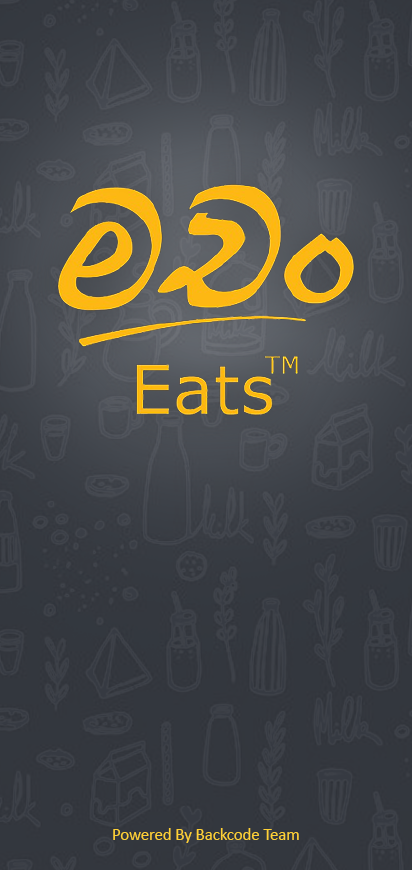
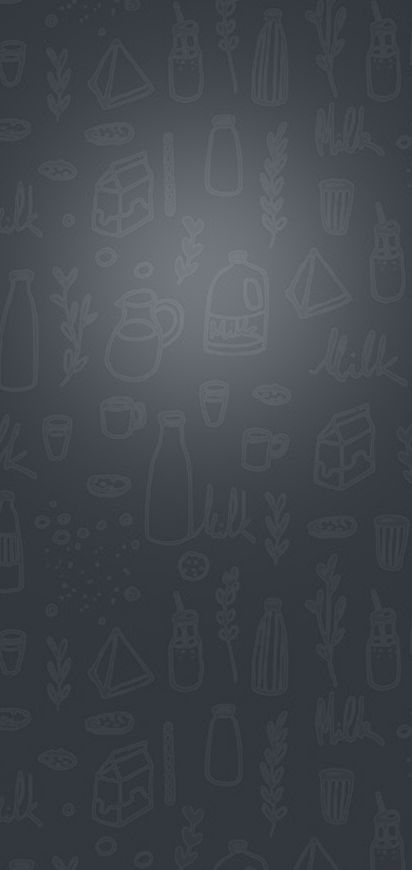
add getStarted

diff --git a/lib/user/getStarted.dart b/lib/user/getStarted.dart
@@ -1,8 +1,15 @@
 import 'package:flutter/material.dart';
+import 'constants.dart';
+import 'login.dart';
  
-class GetStarted extends StatelessWidget {
+class GetStarted extends StatefulWidget {
   const GetStarted({Key? key}) : super(key: key);
 
+  @override
+  State<GetStarted> createState() => _GetStartedState();
+}
+
+class _GetStartedState extends State<GetStarted> {
   @override
   Widget build(BuildContext context) {
     return Scaffold(
@@ -11,7 +18,51 @@ class GetStarted extends StatelessWidget {
           image: DecorationImage(image: AssetImage('images/GetStarted.png'),fit: BoxFit.cover)
           
         ),
+        child: logoImage(),
       ),
+    );  
+  }
+
+  Widget logoImage(){
+    return Column(
+      children: <Widget>[
+        Padding(
+          padding: EdgeInsets.only(
+            top: 20
+          ),
+          child: Image.asset('images/machanLogo.png'),
+        ),
+         Padding(
+           padding: const EdgeInsets.only(
+             top:100,
+             bottom: 60
+           ),
+           child: Container(
+            height: 50,
+            width: 170,
+            margin: EdgeInsets.only(bottom: 20,top:25),
+            child: RaisedButton(
+              elevation: 5.0,
+              color: Color(0xFFF28606),
+              shape: RoundedRectangleBorder(
+                borderRadius: BorderRadius.circular(30.0),
+              ),
+              onPressed: () {
+                 Navigator.push(context, 
+                MaterialPageRoute(builder: (context)=>LoginPage()),);
+              },
+              child: Text(
+                "Get Started",
+                style: TextStyle(
+                  color: Colors.white,
+                  fontSize: 20,
+                ),
+              ),
+            ),
+        ),
+         ),
+         Text("Powered By Blackcode Team",style: TextStyle(fontSize: 15,color: kOrange),)
+      ],
     );
   }
 }

diff --git a/lib/user/login.dart b/lib/user/login.dart
@@ -9,12 +9,14 @@ import 'forgotPass.dart';
 
 
 
+
 class LoginPage extends StatefulWidget {
   @override
   _LoginPageState createState() => _LoginPageState();
 }
 
 class _LoginPageState extends State<LoginPage> {
+  
   late String email, password;
   Widget _buildLogo() {
     return Row(
@@ -39,6 +41,7 @@ class _LoginPageState extends State<LoginPage> {
             email = value;
           });
         },
+
         decoration: InputDecoration(
             prefixIcon: Icon(
               Icons.email,

diff --git a/lib/main.dart b/lib/main.dart
@@ -17,7 +17,7 @@ class MyApp extends StatelessWidget {
     SystemChrome.setEnabledSystemUIOverlays([SystemUiOverlay.bottom]);
     return MaterialApp(
       debugShowCheckedModeBanner: false,
-      home: LoginPage(),
+      home: GetStarted(),
     );
   }
 }
